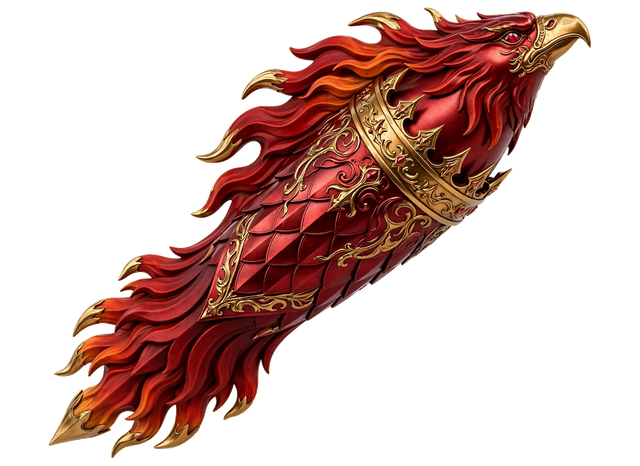
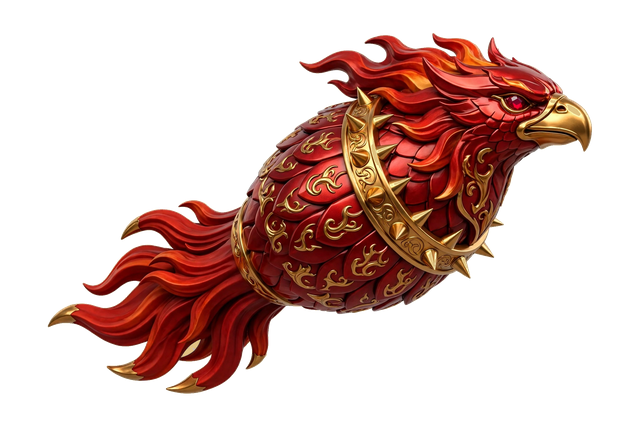
Ultimate warheads redrawn at 3/4 angle (Jay): Ironhold gun-metal fist and Ember red flame phoenix regenerated in three-quarter view (front-right, slightly above — top and side visible, volumetric product-render look matching the approved Voltspire/Bloomvale/Tidereign shells); processed clean (0 whit

diff --git a/www/index.html b/www/index.html
@@ -5510,8 +5510,8 @@ const assetManifest={
    hand-maintained version tags. On boot the page fetches the manifest with
    cache:'no-store' and hard-reloads once if EITHER the live asset build or the
    live HTML version differs, so a stale cache can never survive a republish. */
-const __BUILD_ID='821141362f';
-const __HTML_V='fc88e9072c';
+const __BUILD_ID='6e36dab6ec';
+const __HTML_V='bcb9cfd38f';
 const __ASSET_V=__BUILD_ID;
 /* Synchronous snapshot of the actual art files in assets/build-manifest.json. The live
    manifest refresh below replaces this set as soon as it arrives. All player/enemy
